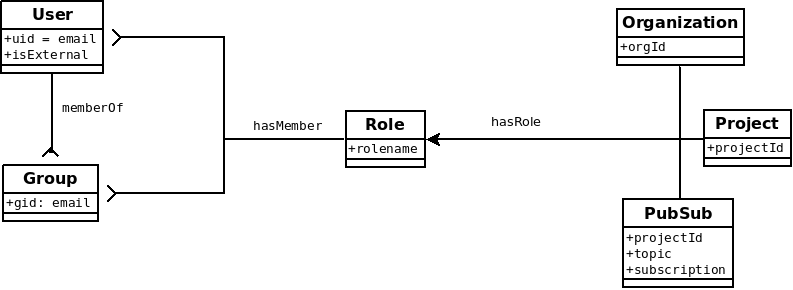
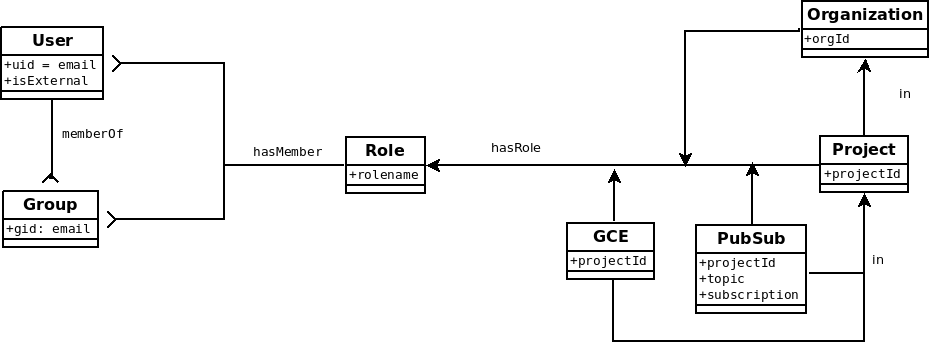
uml update

diff --git a/README.md b/README.md
@@ -53,6 +53,8 @@ The schema used in this sample is pretty basic and indexes a few properties acro
 
 -![image/IAM_UML.png](images/IAM_UML.png)
 
+> Note: the script and sample below does not cover cloud org, pubsub or GCE resource types.  It only iterates and covers projects
+
 - Users
 ```python
   g.addV('user').property(label, 'user').property('uid', email).property('isExternal', False).id().next()
